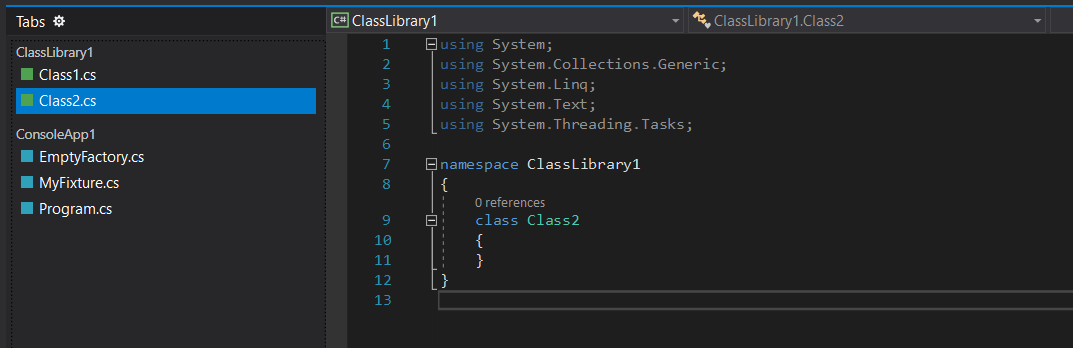
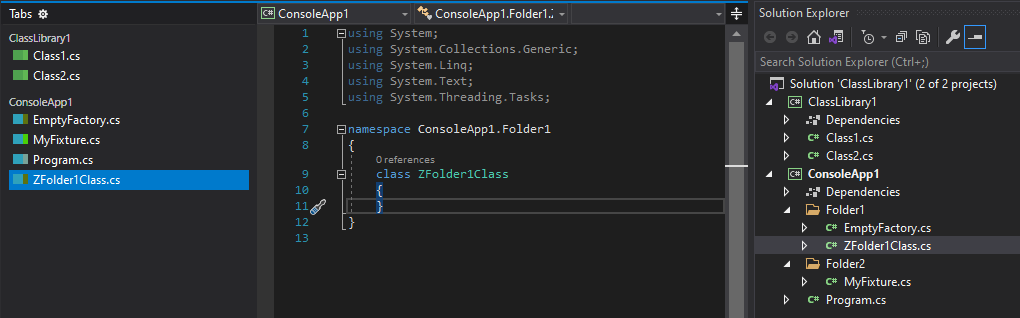
+ added a colorization of the folder if the file

diff --git a/ColorTabs2019/Backgrounder.cs b/ColorTabs2019/Backgrounder.cs
@@ -3,7 +3,9 @@ using System.Collections.Concurrent;
 using System.Collections.Generic;
 using System.Diagnostics;
 using System.Globalization;
+using System.IO;
 using System.Linq;
+using System.Security.Cryptography;
 using System.Text;
 using System.Threading;
 using System.Windows;
@@ -115,12 +117,15 @@ namespace ColorTabs2019
                                 //check for its title updated
                                 if (_headerDict.TryGetValue(tabItem, out var header))
                                 {
-                                    var headerTextBlock = ((tabItem.Header as StackPanel).Children[1] as TextBlock);
-                                    var ourTitle = headerTextBlock.Text;
-                                    var originalHeader = GetTabTile(header);
-                                    if (ourTitle != originalHeader)
+                                    var headerTextBlock = ((tabItem.Header as StackPanel).Children[2] as TextBlock);
+                                    if (headerTextBlock != null)
                                     {
-                                        headerTextBlock.Text = originalHeader;
+                                        var ourTitle = headerTextBlock.Text;
+                                        var originalHeader = GetTabTile(header);
+                                        if (ourTitle != originalHeader)
+                                        {
+                                            headerTextBlock.Text = originalHeader;
+                                        }
                                     }
                                 }
 
@@ -142,9 +147,18 @@ namespace ColorTabs2019
                                     {
                                         HorizontalAlignment = HorizontalAlignment.Left,
                                         VerticalAlignment = VerticalAlignment.Stretch,
-                                        Fill = new SolidColorBrush(_colorProvider.DetermineColor(tabItem)),
+                                        Fill = new SolidColorBrush(_colorProvider.DetermineColor(tabItem).Item1),
                                         Height = 10,
                                         Width = 10,
+                                        Margin = new Thickness(0)
+                                    },
+                                    new Rectangle
+                                    {
+                                        HorizontalAlignment = HorizontalAlignment.Left,
+                                        VerticalAlignment = VerticalAlignment.Stretch,
+                                        Fill = new SolidColorBrush(_colorProvider.DetermineColor(tabItem).Item2),
+                                        Height = 10,
+                                        Width = 5,
                                         Margin = new Thickness(0)
                                     },
                                     new TextBlock
@@ -258,7 +272,7 @@ namespace ColorTabs2019
 
         private readonly ConcurrentDictionary<string, Color> _dict = new();
 
-        public Color DetermineColor(TabItem tabItem)
+        public (Color, Color) DetermineColor(TabItem tabItem)
         {
             var grid = tabItem.GetRecursiveByName("TitlePanel") as Grid;
             if (grid != null)
@@ -272,34 +286,60 @@ namespace ColorTabs2019
                     if (parts.Length == 5)
                     {
                         var csprojPath = parts[1];
+                        var filePath = parts[2];
 
-                        if (_dict.TryGetValue(csprojPath, out var color))
+                        Color folderColor = Colors.Transparent;
+                        if (!string.IsNullOrEmpty(filePath) && File.Exists(filePath))
                         {
-                            return color;
+                            var folderPath = new FileInfo(filePath).Directory?.FullName;
+                            if (!string.IsNullOrEmpty(folderPath))
+                            {
+                                folderColor = GetRandomColor(folderPath);
+                            }
+                        }
+
+                        if (_dict.TryGetValue(csprojPath, out var projectColor))
+                        {
+                            return (projectColor, folderColor);
                         }
 
                         if (_dict.Count < _colors.Length)
                         {
-                            color = _colors[_dict.Count].ToColorFromRgb();
+                            projectColor = _colors[_dict.Count].ToColorFromRgb();
                         }
                         else
                         {
                             //enable randomizer
-                            var hashcode = csprojPath.GetHashCode();
-                            var a = (byte)255;
-                            var r = (byte)((hashcode & 0x00ff0000) >> 16);
-                            var g = (byte)((hashcode & 0x0000ff00) >> 8);
-                            var b = (byte)((hashcode & 0x000000ff) >> 0);
-                            color = Color.FromArgb(a, r, g, b);
+                            projectColor = GetRandomColor(csprojPath);
                         }
 
-                        _dict[csprojPath] = color;
-                        return color;
+                        _dict[csprojPath] = projectColor;
+                        return (projectColor, folderColor);
                     }
                 }
             }
 
-            return Colors.Transparent;
+            return (Colors.Transparent, Colors.Transparent);
+        }
+
+        private static Color GetRandomColor(
+            string s
+            )
+        {
+            using (var md5 = MD5.Create())
+            {
+                md5.Initialize();
+                md5.ComputeHash(Encoding.UTF8.GetBytes(s));
+                var hashcode = md5.Hash;
+
+                var a = (byte)255;
+                var r = hashcode[0];
+                var g = hashcode[1];
+                var b = hashcode[2];
+                var color = Color.FromArgb(a, r, g, b);
+
+                return color;
+            }
         }
 
         public void Reset()

diff --git a/ColorTabs2019/source.extension.cs b/ColorTabs2019/source.extension.cs
@@ -11,7 +11,7 @@ namespace ColorTabs2019
         public const string Name = "Color Tabs 2019";
         public const string Description = @"Color Tabs Extension for Visual Studio 2019.";
         public const string Language = "en-US";
-        public const string Version = "1.5";
+        public const string Version = "1.6";
         public const string Author = "lsoft";
         public const string Tags = "";
     }
